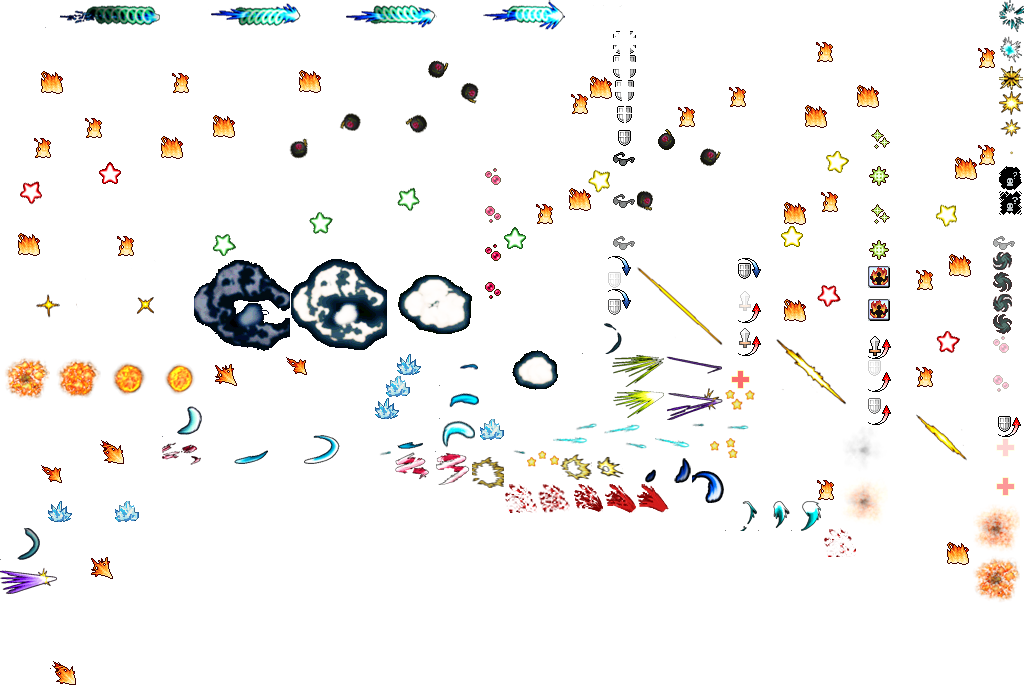
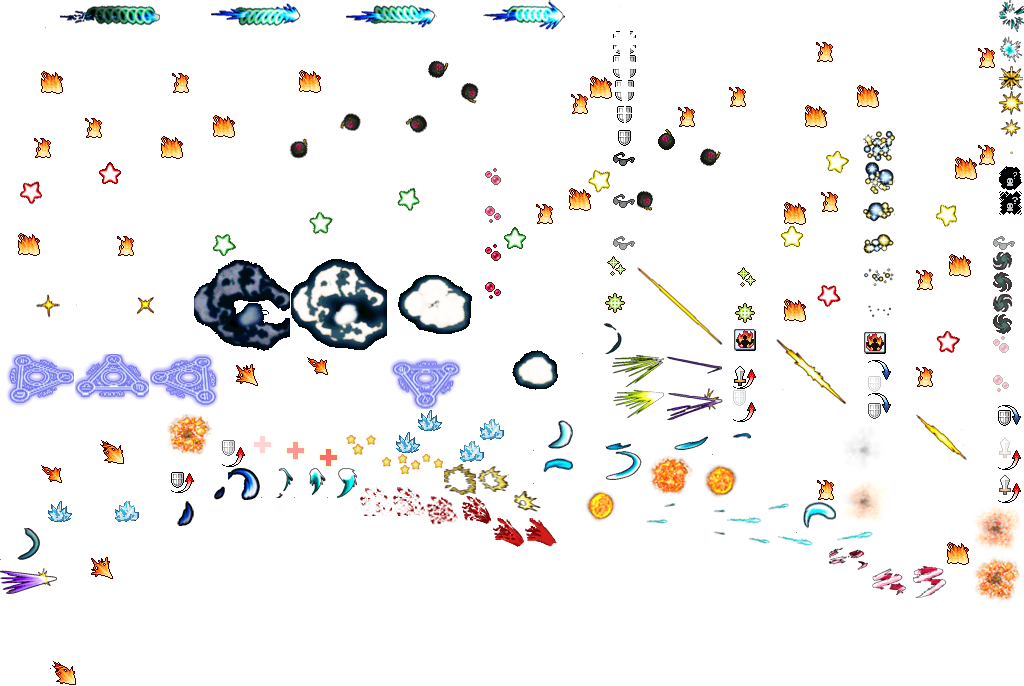
增加了法术折磨技能

diff --git a/Gdx002/src/com/bsu/tools/GameAnimationClass.java b/Gdx002/src/com/bsu/tools/GameAnimationClass.java
@@ -492,6 +492,21 @@ public class GameAnimationClass {
 			tr.add(texture_effect_skills.findRegion("s-96-",13));
 			tr.add(texture_effect_skills.findRegion("s-96-",14));
 			tr.add(texture_effect_skills.findRegion("s-96-",15));
+			break;
+		case 102:
+			tr.add(texture_effect_skills.findRegion("s-102-",1));
+			tr.add(texture_effect_skills.findRegion("s-102-",2));
+			tr.add(texture_effect_skills.findRegion("s-102-",3));
+			tr.add(texture_effect_skills.findRegion("s-102-",4));
+			tr.add(texture_effect_skills.findRegion("s-102-",1));
+			tr.add(texture_effect_skills.findRegion("s-102-",2));
+			tr.add(texture_effect_skills.findRegion("s-102-",3));
+			tr.add(texture_effect_skills.findRegion("s-102-",4));
+			tr.add(texture_effect_skills.findRegion("s-102-",1));
+			tr.add(texture_effect_skills.findRegion("s-102-",2));
+			tr.add(texture_effect_skills.findRegion("s-102-",3));
+			tr.add(texture_effect_skills.findRegion("s-102-",4));
+			break;
 		default:
 			break;
 		}
@@ -556,7 +571,12 @@ public class GameAnimationClass {
 			tr.add(texture_effect_skills.findRegion("s-70-",1));
 			tr.add(texture_effect_skills.findRegion("s-70-",2));
 			break;
-
+		case 102:
+			tr.add(texture_effect_skills.findRegion("s-102-",1));
+			tr.add(texture_effect_skills.findRegion("s-102-",2));
+			tr.add(texture_effect_skills.findRegion("s-102-",3));
+			tr.add(texture_effect_skills.findRegion("s-102-",4));
+			break;
 		default:
 			break;
 		}

diff --git a/Gdx002/src/com/bsu/obj/skilltree/Skill.java b/Gdx002/src/com/bsu/obj/skilltree/Skill.java
@@ -160,12 +160,12 @@ public class Skill {
 			}else if(type==Skill.Type.prob_blind){
 				//此处增加机率代码
 				if(U.probability(val))
-					object.csstate.add(new ContinuedSkillState(1,0,CSType.blind,ani_continue,offset_ani_continue));
+					object.csstate.add(new ContinuedSkillState(2,0,CSType.blind,ani_continue,offset_ani_continue));
 			//一定机率眩晕
 			}else if(type==Skill.Type.prob_dizzy){
 				//此处增加机率代码
 				if(U.probability(val))
-					object.csstate.add(new ContinuedSkillState(1,0,CSType.dizzy,ani_continue,offset_ani_continue));
+					object.csstate.add(new ContinuedSkillState(2,0,CSType.dizzy,ani_continue,offset_ani_continue));
 			//破甲效果
 			}else if(type==Skill.Type.prob_nude){
 				object.csstate.add(new ContinuedSkillState(3,val,CSType.debuff_def,ani_continue,offset_ani_continue));

diff --git a/Gdx002/src/com/bsu/make/SkillFactory.java b/Gdx002/src/com/bsu/make/SkillFactory.java
@@ -304,7 +304,9 @@ public class SkillFactory {
 			break;
 		case 102:
 			skl = new Skill(i,"法术折磨",QUALITY.orange,Type.prob_blind,0.2f,0.1f,new CLASSES[]{CLASSES.wizard,CLASSES.cleric,CLASSES.sorcerer},"用法术折磨敌人，使其防御大幅度降低",
-					new Vector2[] {new Vector2(1,0),new Vector2(2,0),new Vector2(3,0)});
+					new Vector2[] {new Vector2(1,0),new Vector2(2,0),new Vector2(3,0),new Vector2(4,0),new Vector2(5,0)});
+			skl.offset_ani_object = new Vector2(-20,-16);
+			skl.offset_ani_continue = new Vector2(-20,-16);
 			break;
 		case 103:
 			skl = new Skill(i,"冲锋",QUALITY.orange,Type.p_damage,2.5f,0.8f,new CLASSES[]{CLASSES.fighter},"向前冲刺，直至撞到敌人或地图边缘，撞到敌人后对敌人造成大量伤害",

diff --git a/Gdx002/src/com/bsu/obj/Player.java b/Gdx002/src/com/bsu/obj/Player.java
@@ -56,7 +56,7 @@ public class Player {
 			RoleFactory rf = RoleFactory.getInstance();
 			playerRole.add(new Role(Role.Type.HERO,QUALITY.green,CLASSES.fighter,"测试人物",U.getRandom(100, -6, 6),8,10
 					,EquipFactory.getInstance().getWeaponByIdx(1),EquipFactory.getInstance().getArmorByIdx(1),
-					new SkillTree().getSkillTreeFixedSkill(96)
+					new SkillTree().getSkillTreeFixedSkill(102)
 					,GameTextureClass.getInstance().fc_photo));				//测试技能用
 			playerRole.add(rf.getFighter("fc", Role.Type.HERO, QUALITY.green,GameTextureClass.getInstance().fc_photo));
 			playerRole.add(rf.getFighter("ss哈哈", Role.Type.HERO, QUALITY.blue,GameTextureClass.getInstance().zyc_photo));
